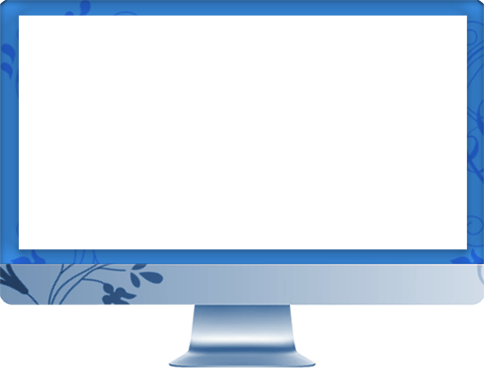
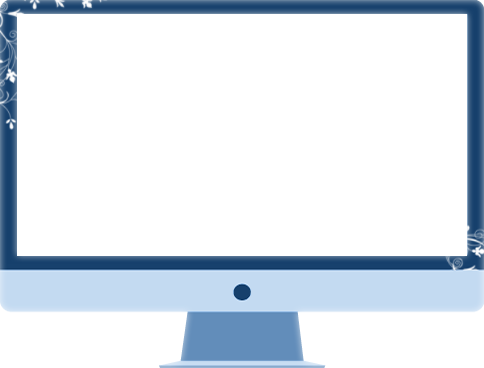
Fix: Images slider variables

Changed region(s): [[0.0, 0.0, 1.0, 1.0]]

diff --git a/src/components/NavBar/Slider.module.scss b/src/components/NavBar/Slider.module.scss
@@ -7,13 +7,12 @@
     position: relative;
     margin-bottom: 55px;
     z-index: 1;
-
     
     @media screen and (max-width: variables.$breakpoint-tablette) {
         margin-top: 45px;
         width: variables.$width_img_cover_slider_tablette;
         height: variables.$height_img_cover_slider_tablette;
-        margin-bottom: 10px;
+        margin-bottom: 40px;
     }
 
     @media screen and (max-width: variables.$breakpoint-mobile) {
@@ -26,7 +25,7 @@
         cursor: pointer;
 
         & i{ 
-            border-radius: variables.$radius--circle; 
+            border-radius: 50%; 
             padding: 6px;
             font-size: variables.$slider__chevron-icone-fontSize-desktop--slider;
 
@@ -92,10 +91,8 @@
             @media screen and (max-width: variables.$breakpoint-mobile) {
                 position: absolute;
                 display: block;
-                top: 350px;
-                left: 98px;
-                z-index: 1;
-                font-size: 24px;
+                top:355px;
+                left: 99px;
             }
         }
     }
@@ -106,7 +103,7 @@
         width:  variables.$width_img_cover_slider_desktop * 3;
         height: variables.$height_img_cover_slider_desktop;
         transform: translateX(- variables.$width_img_cover_slider_desktop);
- 
+
         @media screen and (max-width: variables.$breakpoint-tablette) {
             width: variables.$width_img_cover_slider_tablette * 3;
             height: variables.$height_img_cover_slider_tablette;
@@ -130,7 +127,6 @@
 
             @media screen and (max-width: variables.$breakpoint-mobile) {
                 width: variables.$width_img_cover_slider_mobile;
-
             }
             
             &__img{
@@ -148,7 +144,7 @@
         .slider__chevron{
             & i{
                 color: variables.$slider__chevron-color-desktop--slider--dark;
-                border: 2px solid variables.$slider__chevron-border-desktop--slider--dark;
+                border: 10px solid variables.$slider__chevron-border-desktop--slider--dark;
                 background-color: variables.$slider__chevron-background-desktop--slider--dark;
                 box-shadow: 0px 10px 10px inset variables.$slider__chevron-boxShadow-desktop--slider--dark;
 
@@ -201,23 +197,22 @@
 .device{
     position: absolute;
     width: 484px;
-    height: 360px;
-    top: -14px;
-    left: -17px;
-
+    height: 370px;
+    top: -15px;
+    left: -18px;
 
     @media screen and (max-width: variables.$breakpoint-tablette) {
-        width: 428px;
-        height: 265px;
-        top: -13px;
-        left: -15px;
+        width: 425px;
+        height: 270px;
+        top: -14px;
+        left: -10px;
     }
 
     @media screen and (max-width: variables.$breakpoint-mobile) {
-        width: 262px;
-        height: 426px;
+        width: 266px;
+        height: 430px;
         top:-30px;
-        left: -13px;
+        left: -15px;
     }
 
     & img{

diff --git a/src/components/Slider/Slider.tsx b/src/components/Slider/Slider.tsx
@@ -1,7 +1,7 @@
 import styles from './Slider.module.scss';
-import next from "../../assets/img/next.webp";
-import prev from "../../assets/img/prev.webp"
 import { useEffect, useState } from "react";
+import { ThemeContext } from "../../ThemeContext/ThemeContext";
+import { useContext } from "react";
 interface ISlider {
     title: string;
     cover: { [key: string]: string },
@@ -17,6 +17,9 @@ interface SliderProps {
 }
 
 const Slider = ({ inData, inCurrentIdx, inPrevIdx, inNextIdx, inPrevCursor, inNextCursor }: SliderProps): JSX.Element => {
+
+    const themeContext = useContext(ThemeContext);
+
 
     const [srcImgDevice, setSrcImgDevice] = useState<string>(`./projects_img/covers/desktop/device_desktop.webp`);
     const [altImgDevice, setAltImgDevice] = useState<string>("Image desktop");
@@ -54,21 +57,22 @@ const Slider = ({ inData, inCurrentIdx, inPrevIdx, inNextIdx, inPrevCursor, inNe
         setAltImgDevice(`Image ${device}`)
     }, [device])
 
+
     return (
-        <div className={styles.slider}>
+        <div className={[styles.slider, themeContext?.isDarkMode ? styles['slider--dark'] : styles['slider--light']].join(' ')}>
             <div className={styles["slider__chevron"]}>
-                <img
-                    className={styles["slider__chevron__prev"]}
-                    src={prev}
+                <i
+                    className={[styles["slider__chevron__prev"], 'fa-solid fa-arrow-rotate-left'].join(' ')}
                     onClick={inPrevCursor}
-                    alt="Chevron précédent"
-                />
-                <img
-                    className={styles["slider__chevron__next"]}
-                    src={next}
+                >
+                </i>
+                <i
+                    className={[styles["slider__chevron__next"], "fa-solid fa-arrow-rotate-right"].join(' ')}
                     onClick={inNextCursor}
-                    alt="Chevron suivant"
-                />
+                ></i>
+                <a href='#title'>
+                    <i className={[styles.scroll, "fa-regular fa-circle-down"].join(' ')}></i>
+                </a>
             </div>
             <div className={styles.overflow}>
                 <div id="slider__pictures" className={styles.slider__images}>

diff --git a/src/sass/utils/_variables.scss b/src/sass/utils/_variables.scss
@@ -2,7 +2,9 @@
 // -- Colors -- //
 /****************/
 
-// Repeat Color
+// Syntaxe ==> élément-pseudoClasse-propriétée-device--fichier--mode
+
+// Repeated Color
 /**************/
 $primary-color: #13589f;
 $light-color: #dddddd;
@@ -42,8 +44,12 @@ $container__sources-links-button-border-desktop--project--dark: $light-color;
 $navBar__item-background-mobile--navbar--dark: $primary-color; 
 $navBar__item-border-mobile--navbar--dark: $dark-color; 
 $navBar__item-active-border-mobile--navbar--dark:  rgb(61, 120, 145);
-// -- Component Switch
 $slider-background-desktop--switch--dark: $light-color;
+// -- Component Switch
+$slider__chevron-color-desktop--slider--dark: #13589f ;
+$slider__chevron-border-desktop--slider--dark: white;
+$slider__chevron-background-desktop--slider--dark: white;
+$slider__chevron-boxShadow-desktop--slider--dark:  rgba(14, 102, 140, 0.5);
 
 // light Mode
 /************/
@@ -78,8 +84,12 @@ $links-mobile--navbar--light:  $light-color;
 $slider-background-desktop--switch--light:   #1c76d3;
 $slider-before-background-desktop--switch--light:  #fff; 
 $slider-icone-desktop--switch--light: rgb(8, 8, 154); 
+$slider-icone-desktop--switch--light: $dark-color;
 // -- Component Slider
-$slider-icone-desktop--slider--light: $dark-color;
+$slider__chevron-color-desktop--slider--light: #13589f;
+$slider__chevron-border-desktop--slider--light:  #135dca;
+$slider__chevron-background-desktop--slider--light: white;
+$slider__chevron-boxShadow-desktop--slider--light:  rgba(14, 102, 140, 0.5);
 
 // -- Font Sizes -- //
 /********************/
@@ -98,6 +108,10 @@ $navbar__item-fontSize-tablette--navbar: 18px;
 $navbar__item-fontSize-mobile--navbar: 25px;
 // -- Component Switch
 $slider-icone-fontSize-mobile--switch: 9px;
+// -- Component Slider
+$slider__chevron-icone-fontSize-desktop--slider: 30px;
+$slider__chevron-icone-fontSize-tablette--slider: 25px;
+$slider__chevron-icone-fontSize-mobile--slider: 20px;
 
 // -- Fonts -- //
 /***************/

diff --git a/src/pages/Projets/Projets.tsx b/src/pages/Projets/Projets.tsx
@@ -110,16 +110,14 @@ const Projets = (): JSX.Element => {
             <div className={[styles.projects, themeContext?.isDarkMode ? styles['projects--dark'] : styles['projects--light']].join(' ')}>
                 <Banner />
                 <div className={styles.projects__content}>
-                    <a href="#title">
-                        <Slider
-                            inData={items}
-                            inCurrentIdx={currentIdx}
-                            inPrevIdx={prevIdx}
-                            inNextIdx={nextIdx}
-                            inPrevCursor={prevCursor}
-                            inNextCursor={nextCursor}
-                        />
-                    </a>
+                    <Slider
+                        inData={items}
+                        inCurrentIdx={currentIdx}
+                        inPrevIdx={prevIdx}
+                        inNextIdx={nextIdx}
+                        inPrevCursor={prevCursor}
+                        inNextCursor={nextCursor}
+                    />
                     <div id='title' className={styles.background__title}></div>
                     <div className={styles.boxinfos}>
                         <div id="container" className={styles.container}>

diff --git a/src/pages/Projets/Projets.module.scss b/src/pages/Projets/Projets.module.scss
@@ -21,7 +21,7 @@
         border-radius: variables.$radius--10;
 
         @media screen and (max-width: variables.$breakpoint-tablette) {
-            top: 360px;
+            top: 335px;
         }
     
         @media screen and (max-width: variables.$breakpoint-mobile) {

diff --git a/src/components/Switch/Switch.module.scss b/src/components/Switch/Switch.module.scss
@@ -55,7 +55,7 @@
     border-radius: variables.$radius--20;
     
     & i{
-        color: variables.$slider-icone-desktop--slider--light;
+        color: variables.$slider-icone-desktop--switch--light;
         position: absolute;
         top: 7px;
         z-index: 1;
